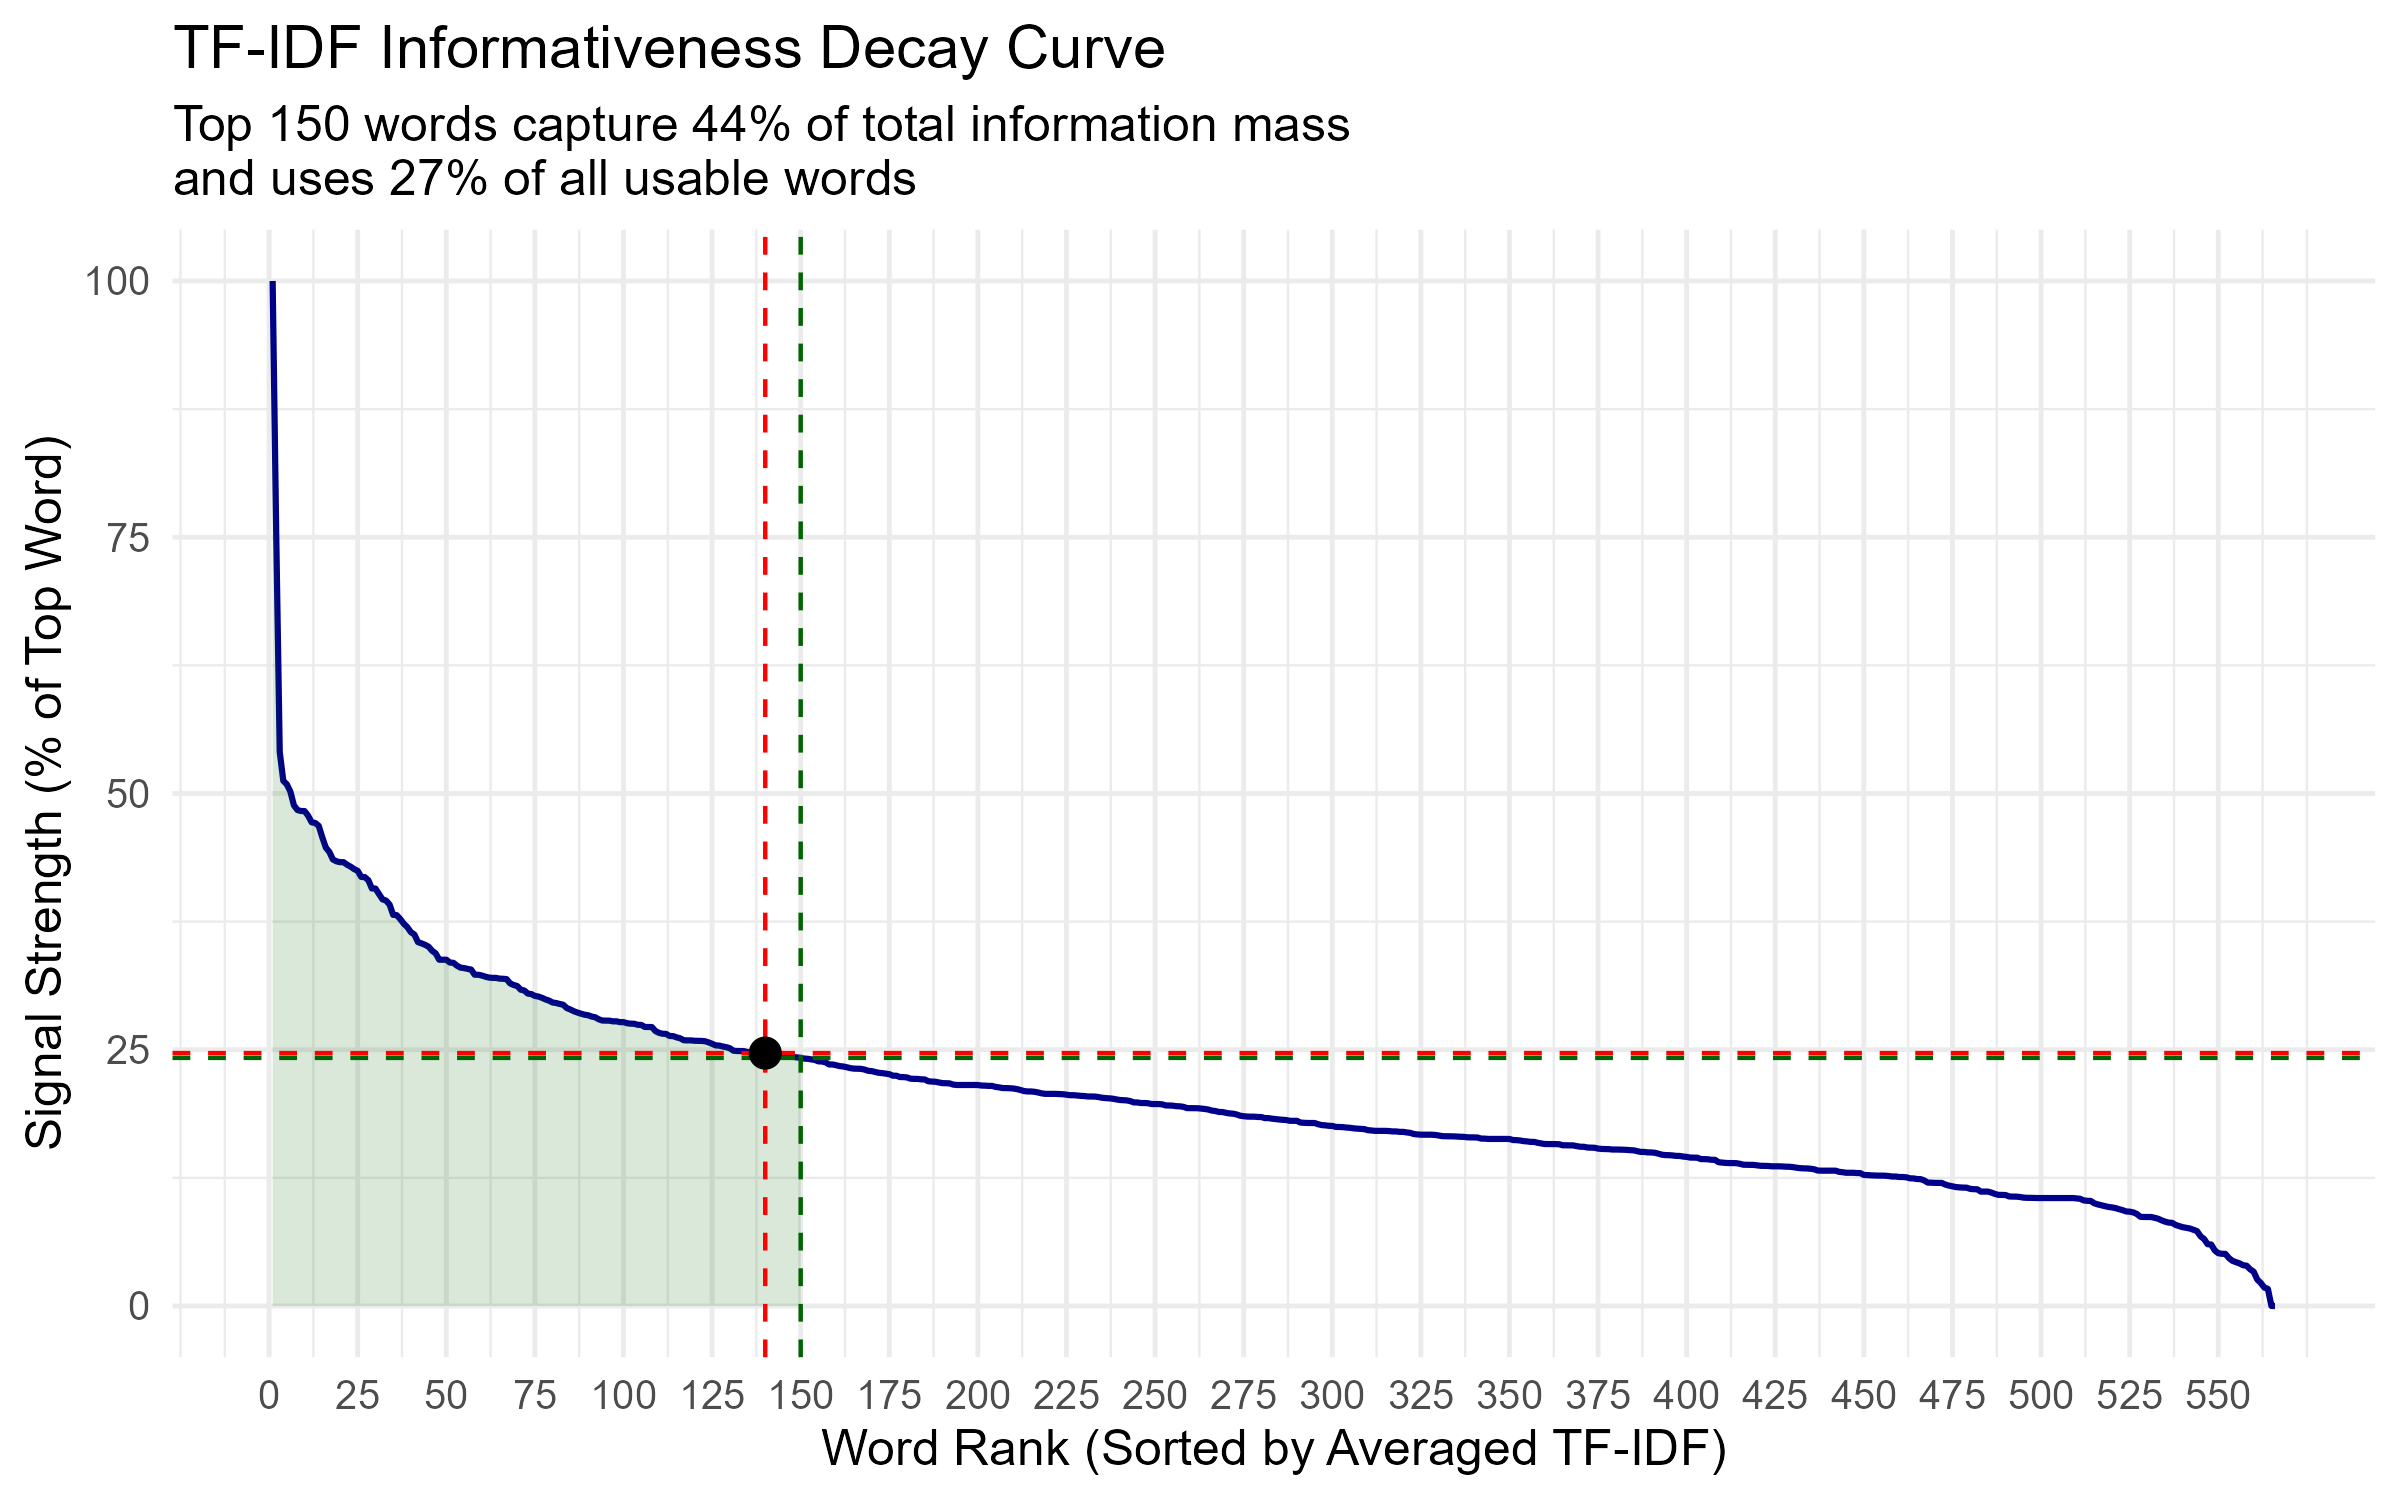
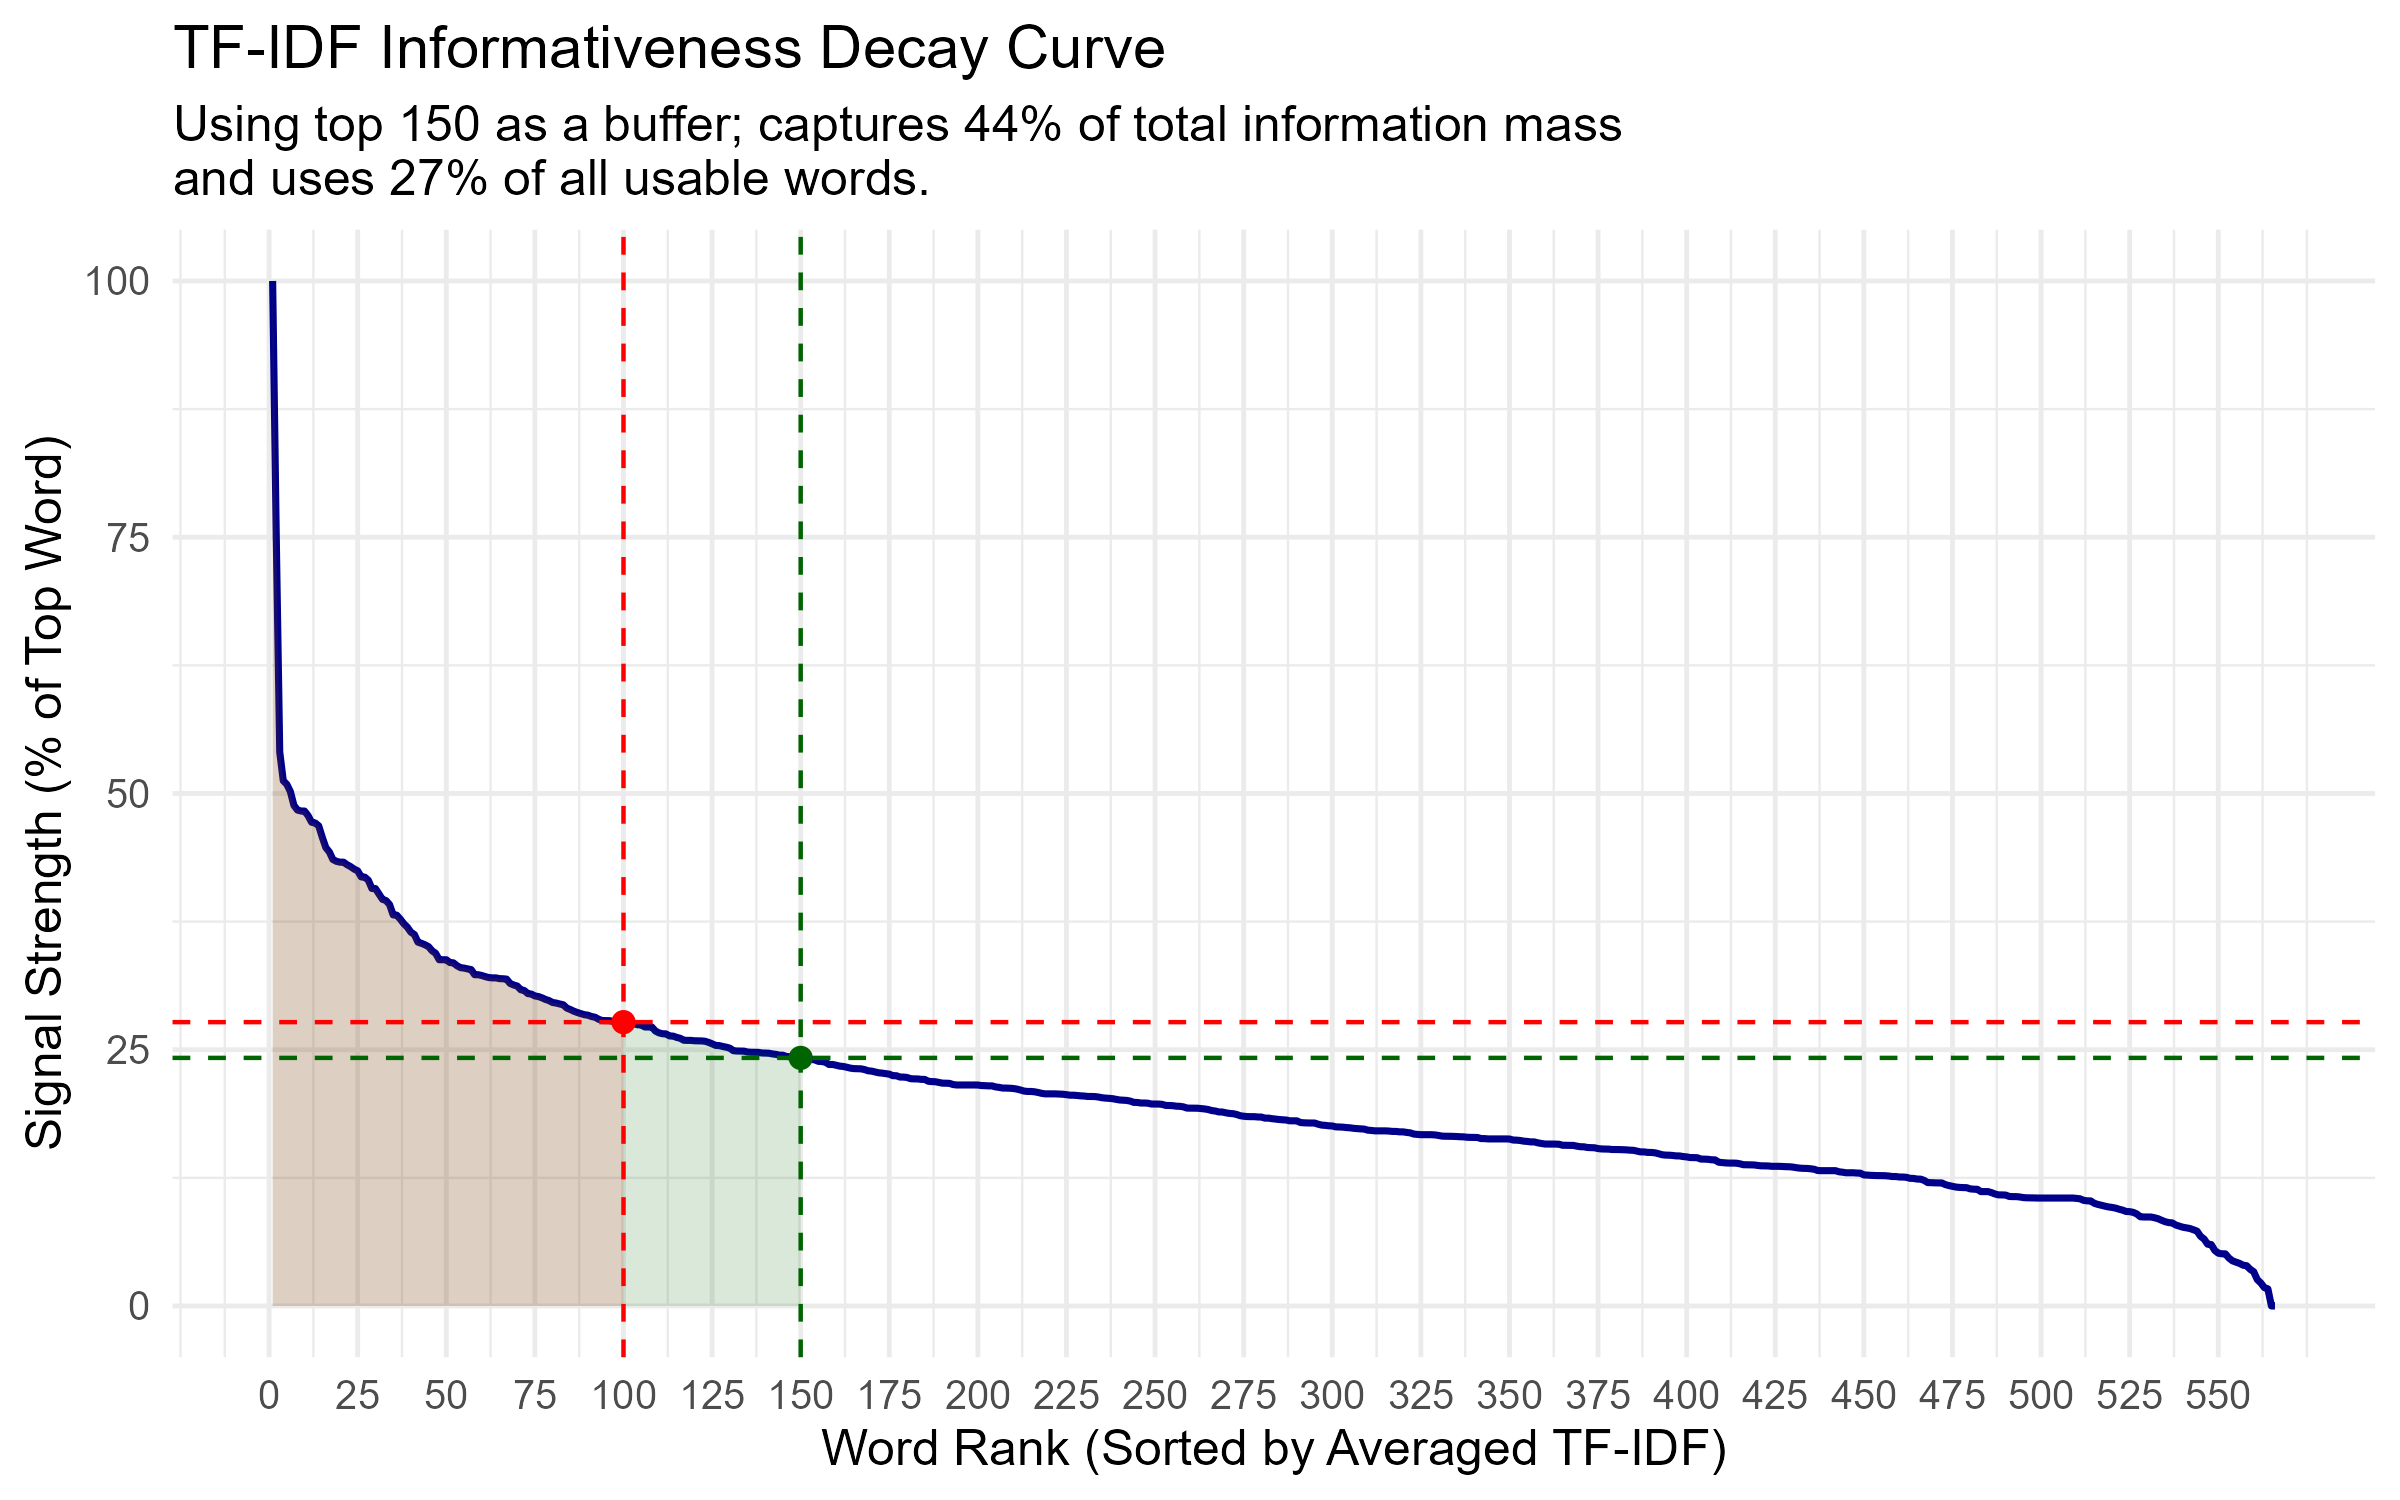
Adjustments to informativeness decay curve

Changed region(s): [[0.0625, 0.644, 0.9688, 0.736], [0.0625, 0.0613, 0.6875, 0.092]]

diff --git a/project1/SCRIPTS/pokemon_data_cleaning_for_hca.md b/project1/SCRIPTS/pokemon_data_cleaning_for_hca.md
@@ -7,7 +7,9 @@ Caroline Clippinger
 
 This data cleaning script is purposed with preparing the Pokemon type x
 word and Pokemon generation x word matrices to use for our hierarchical
-clustering analysis. The necessary data file can be found at
+clustering analysis. Includes creation of additional datasets for
+sensitivity analysis to ensure results are not determined by a single
+feature count selection. The necessary data file can be found at
 DS-4002-group-01/project1/DATA/pokedex.csv in the github. It also
 requires the following packages: `here`, `tidyverse`, `tidytext`,
 `textdata`, and `udpipe`. To install these packages use the
@@ -563,15 +565,7 @@ print(head(common_words, 20))
     ## 19 fireball            0.0416        0.00691    0.0243
     ## 20 expedition          0.0312        0.0173     0.0242
 
-``` r
-# Extracting the top 150 words to use for clustering features
-top_150_df <- common_words %>% 
-  slice_head(n = 150)
-
-top_150_words <- top_150_df$word_root
-```
-
-### Determining best feature count
+### Determining best feature count and extracting
 
 ``` r
 n_unique_words = length(unique(common_words$word_root))
@@ -726,31 +720,31 @@ informativeness %>%
 
 ``` r
 # Indicates 140 to be the first main plateau point
-rank_140_metrics <- informativeness %>% filter(rank == 140)
+rank_100_metrics <- informativeness %>% filter(rank == 100)
 rank_150_metrics <- informativeness %>% filter(rank == 150)
 
-cat("First plateau in decay observed at Rank 140\n")
+cat("First plateau in decay observed at Rank 100\n")
 ```
 
-    ## First plateau in decay observed at Rank 140
+    ## First plateau in decay observed at Rank 100
 
 ``` r
-cat("Signal Strength at Rank 140:", round(rank_140_metrics$signal_strength_pct, 2), "%\n")
+cat("Signal Strength at Rank 100:", round(rank_100_metrics$signal_strength_pct, 2), "%\n")
 ```
 
-    ## Signal Strength at Rank 140: 24.67 %
+    ## Signal Strength at Rank 100: 27.69 %
 
 ``` r
-cat("Vocabulary % at Rank 140:", round(rank_140_metrics$pct_total_vocab, 2), "%\n")
+cat("Vocabulary % at Rank 100:", round(rank_100_metrics$pct_total_vocab, 2), "%\n")
 ```
 
-    ## Vocabulary % at Rank 140: 24.73 %
+    ## Vocabulary % at Rank 100: 17.67 %
 
 ``` r
-cat("Total TF-IDF Mass Captured at Rank 140:", round(rank_140_metrics$cumulative_mass_pct, 2), "%\n\n")
+cat("Total TF-IDF Mass Captured at Rank 100:", round(rank_100_metrics$cumulative_mass_pct, 2), "%\n\n")
 ```
 
-    ## Total TF-IDF Mass Captured at Rank 140: 41.4 %
+    ## Total TF-IDF Mass Captured at Rank 100: 32.33 %
 
 ``` r
 cat("Plan to use Rank 150 as a feature buffer and for pragmatic rounding\n")
@@ -779,19 +773,23 @@ cat("Total TF-IDF Mass Captured at Rank 150:", round(rank_150_metrics$cumulative
 ``` r
 # Plotting decay curve
 ggplot(informativeness, aes(x=rank, y = signal_strength_pct)) + 
-  geom_line(color = "darkblue", size = .7) +
+  geom_line(color = "darkblue", size = .8) +
   geom_ribbon(data = filter(informativeness, rank <=150),
               aes(ymin = 0, ymax = signal_strength_pct),
               fill = "darkgreen", alpha = .15) +
-  geom_vline(xintercept = 140, linetype = "dashed", color = "red", size = .5) +
-  geom_hline(yintercept = rank_140_metrics$signal_strength_pct, linetype = "dashed", color = "red", size = .5) +
+  geom_ribbon(data = filter(informativeness, rank <=100),
+              aes(ymin = 0, ymax = signal_strength_pct),
+              fill = "red", alpha = .1) +
+  geom_vline(xintercept = 100, linetype = "dashed", color = "red", size = .5) +
+  geom_hline(yintercept = rank_100_metrics$signal_strength_pct, linetype = "dashed", color = "red", size = .5) +
   geom_vline(xintercept = 150, linetype = "dashed", color = "darkgreen", size = .5) +
   geom_hline(yintercept = rank_150_metrics$signal_strength_pct, linetype = "dashed", color = "darkgreen", size = .5) +
-  annotate("point", x = 140, y = rank_140_metrics$signal_strength_pct, color = "black", size = 3) +
+  annotate("point", x = 100, y = rank_100_metrics$signal_strength_pct, color = "red", size = 2) +
+  annotate("point", x = 150, y = rank_150_metrics$signal_strength_pct, color = "darkgreen", size = 2) +
   scale_x_continuous(breaks = seq(0, max(informativeness$rank), by = 25)) +
   labs(
     title = "TF-IDF Informativeness Decay Curve",
-    subtitle = "Top 150 words capture 44% of total information mass\nand uses 27% of all usable words",
+    subtitle = "Using top 150 as a buffer; captures 44% of total information mass\nand uses 27% of all usable words.",
     x = "Word Rank (Sorted by Averaged TF-IDF)",
     y = "Signal Strength (% of Top Word)"
   ) +
@@ -808,6 +806,14 @@ ggplot(informativeness, aes(x=rank, y = signal_strength_pct)) +
 
 ``` r
 ggsave(here("project1/OUTPUT/", "tf-idf_informativeness_decay_curve.png"), width = 8, height = 5)
+
+# Extracting the top 150 words to use for clustering features as a buffer for 100 which may be ideal
+# will want to include features of 50, 100, and 200 for sensitivity checks and compare model outputs to
+# determine the best features for clustering
+top_150_df <- common_words %>% 
+  slice_head(n = 150)
+
+top_150_words <- top_150_df$word_root
 ```
 
 ## Creating matrices
